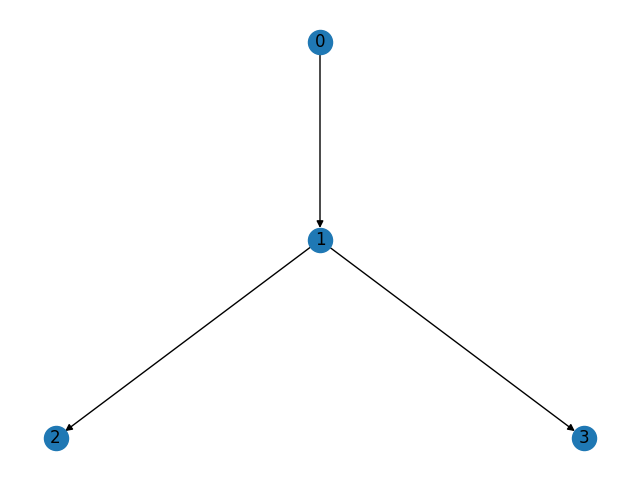
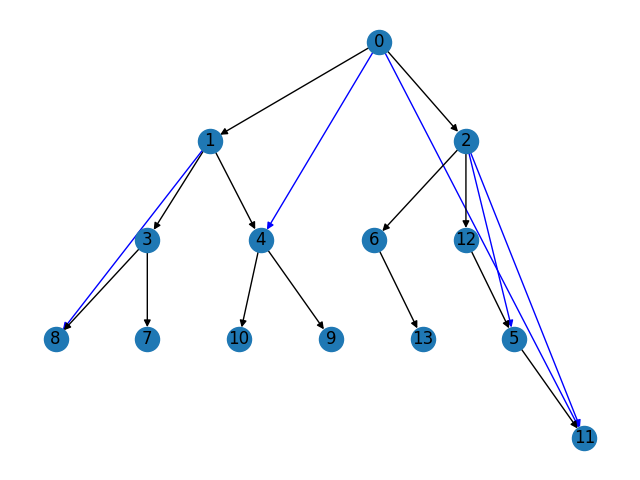
hierarchical utility computation starting from leaves

diff --git a/dpop_v2.py b/dpop_v2.py
@@ -6,14 +6,68 @@ from networkx.drawing.nx_pydot import graphviz_layout
 import matplotlib.pyplot as plt
 import pydot
 import pseudotree_v2 as ptree
+root_node = 0
+
+sentMsgs = []
+
+
+def get_parent(T, node):
+    parent = None
+    pseudo_parents = []
+    in_edges = list(T.in_edges(node ,data=True))
+    out_edges = list(T.out_edges(node, data=True))
+    for p,_,c in in_edges:
+        try:
+            if c['color'] == 'blue':
+                pseudo_parents.append(p) 
+
+        except KeyError as e:
+            children = []
+            for _,a,c in list(T.out_edges(p, data=True)):
+                try:
+                    if c['color'] == 'blue':
+                        # print('pseudo children skip')
+                        pass
+                except KeyError as k:
+                    children.append(a)  
+
+            result = set(children).issubset(sentMsgs)
+            if result:
+                parent = p
+
+    return parent, pseudo_parents
+
+def compute_util(T, nodes):
+    # compute utility from each node and pass it to parents
+    # keep track of parents
+    if len(nodes) == 0:
+        return    
+
+    parents = []
+    for node in nodes:
+
+        sentMsgs.append(node)
+        [parent, _] = get_parent(T,node)
+        # if parent == None:
+        #     return
+        if parent != None:
+            print("computing util from: %d to %d" %(node,parent))
+            if parent not in parents:
+                parents.append(parent)
+        elif node != root_node:
+            if node not in parents:
+                parents.append(node)
+
+    # print("checking util for:", parents)
+    compute_util(T,parents)
 
 def main():
     # 1st row: Number of agents;Number of meetings;Number of variables
-
+    useAgents = True
     # Open file 
-    # inputFilename = 'constraint_graphs/dcop_constraint_graph'
+    inputFilename = 'constraint_graphs/dcop_constraint_graph'
     # inputFilename = 'constraint_graphs/dcop_simple'
-    inputFilename = 'constraint_graphs/DCOP_Problem_50'
+    # inputFilename = 'constraint_graphs/DCOP_Problem_50'
     input = open(inputFilename, 'r') 
     
     # Read first line
@@ -38,33 +92,38 @@ def main():
         graphAgents[id] = ptree.getAllAgentsWithSameMeeting(agentsList, attr.meetings, id)
 
     print (graphAgents)
+    graph = graphVariables
+    if useAgents == True:
+        graph = graphAgents
 
     # Add all edges to graph
-    edges = []
-    for k, l in graphAgents.items():
+    graph_edges = []
+    for k, l in graph.items():
         for v in l:
-            edges.append((k,v))
-    edges = [list(tpl) for tpl in list(set([tuple(sorted(pair)) for pair in edges]))]
-    print(edges)
+            graph_edges.append((k,v))
+    graph_edges = [list(tpl) for tpl in list(set([tuple(sorted(pair)) for pair in graph_edges]))]
+    print(graph_edges)
 
     # Create graph
     G = nx.Graph()
-    for e in edges:
-        G.add_edge(*e, style = 'solid')
+    
+    # Constraint graph
+    for e in graph_edges:
+        G.add_edge(*e, color = 'black')
 
     # Create dfs tree with speficied node
-    rootNode = 5
-    T = nx.dfs_tree(G, rootNode)
+    TreeDfs = nx.dfs_tree(G, root_node)
+
     print("----------------")
     back_edges = []
-    for node, connected in graphAgents.items():
-        e = set(T.edges([node]))
+    for node, connected in graph.items():
+        e = set(TreeDfs.edges([node]))
         shouldBe = []
         for con in connected:
             if (node, con) in e: continue
             if (con, node) in e: continue
-            if T.has_edge(node,con): continue
-            if T.has_edge(con,node): continue
+            if TreeDfs.has_edge(node,con): continue
+            if TreeDfs.has_edge(con,node): continue
 
             shouldBe.append((node, con))
 
@@ -76,19 +135,45 @@ def main():
     back_edges = [list(tpl) for tpl in list(set([tuple(sorted(pair)) for pair in back_edges]))]
     print(back_edges)
     for e in back_edges:
-        T.add_edge(*e, color = 'blue')
+        TreeDfs.add_edge(*e, color = 'blue')
 
+  
+    # leaves = [v for v, d in TreeDfs.out_degree() if d == 0]
+    # find leaves in order to start compute util process
+    leaves = []
+    for v in TreeDfs.nodes(data=True):
+        out_edges = list(TreeDfs.out_edges(v[0], data=True))
+        if len(out_edges) == 0:
+            leaves.append(v[0])
+            continue
 
-    layout = graphviz_layout(T, prog="dot")
+        # print (v, out_edges)
+        all_blue = True
+        for _,_,color in out_edges:
+            try:
+                if color['color'] != 'blue':
+                    all_blue = False
+                    break
+            except KeyError as key:
+                    all_blue = False
+                    break
+        if all_blue:
+            leaves.append(v[0])       
 
-    edges = T.edges.data('color', default='black')
+    layout = graphviz_layout(TreeDfs, prog="dot") 
+
+    edges = TreeDfs.edges.data('color', default='black')
     colors = []
     for _,_,c in edges:
         colors.append(c)
 
-    nx.draw(T, layout, edge_color=colors, with_labels=True) #style='dashed', connectionstyle="arc3,rad=0.1"
-    output = "root_"+str(rootNode)+".png"
+    nx.draw(TreeDfs, layout, edge_color=colors, with_labels=True) #style='dashed', connectionstyle="arc3,rad=0.1"
+    output = "root_"+str(root_node)+".png"
     plt.savefig(output, format="PNG")
+
+
+    print("Leaves are:", leaves)
+    compute_util(TreeDfs, leaves)
 
 if __name__ == "__main__":
     main()
